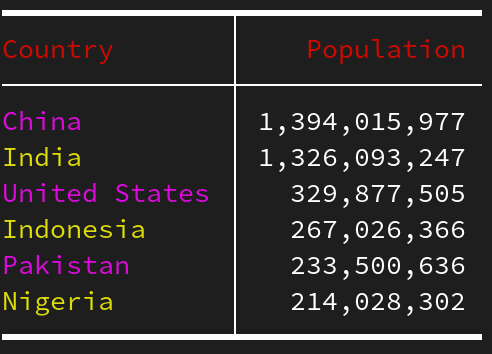
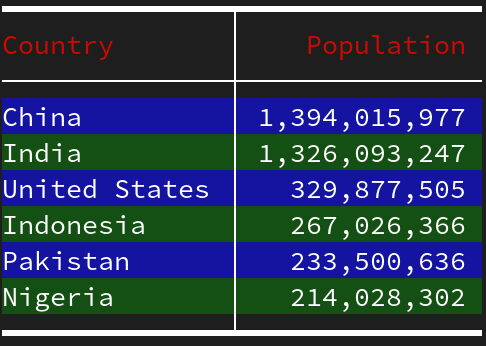
Colors in README.md

diff --git a/table_test.go b/table_test.go
@@ -433,16 +433,16 @@ func ExampleTable_2() {
 // table
 func ExampleTable_3() {
 
-	t, _ := NewTable("l | r ")
+	t, _ := NewTable("\033[38;2;80;80;80ml | r \033[0m")
 	t.AddThickRule()
-	t.AddRow("\033[38;2;206;10;0mCountry\033[0m", "\033[38;2;206;10;0mPopulation\033[0m")
+	t.AddRow("\033[0mCountry\033[38;2;80;80;80m", "\033[0mPopulation")
 	t.AddSingleRule()
-	t.AddRow("\033[38;2;220;10;220mChina\033[0m", "1,394,015,977")
-	t.AddRow("\033[38;2;220;220;10mIndia\033[0m", "1,326,093,247")
-	t.AddRow("\033[38;2;220;10;220mUnited States\033[0m", "329,877,505")
-	t.AddRow("\033[38;2;220;220;10mIndonesia\033[0m", "267,026,366")
-	t.AddRow("\033[38;2;220;10;220mPakistan\033[0m", "233,500,636")
-	t.AddRow("\033[38;2;220;220;10mNigeria\033[0m", "214,028,302")
+	t.AddRow("\033[0mChina\033[38;2;80;80;80m", "\033[0m1,394,015,977")
+	t.AddRow("\033[0mIndia\033[38;2;80;80;80m", "\033[0m1,326,093,247")
+	t.AddRow("\033[0mUnited States\033[38;2;80;80;80m", "\033[0m329,877,505")
+	t.AddRow("\033[0mIndonesia\033[38;2;80;80;80m", "\033[0m267,026,366")
+	t.AddRow("\033[0mPakistan\033[38;2;80;80;80m", "\033[0m233,500,636")
+	t.AddRow("\033[0mNigeria\033[38;2;80;80;80m", "\033[0m214,028,302")
 	t.AddThickRule()
 	fmt.Printf("Output:\n%v", t)
 	// Output:

diff --git a/README.md b/README.md
@@ -219,23 +219,50 @@ is not tied to any, so that the following examples explicitly show the specific
 ANSI color codes required to render each fragment:
 
 ``` Go
-	t, _ := NewTable("l | r ")
+	t, _ := NewTable("l | r \033[0m")
 	t.AddThickRule()
-	t.AddRow("\033[38;2;206;10;0mCountry\033[0m", "\033[38;2;206;10;0mPopulation\033[0m")
+	t.AddRow("\033[38;2;206;10;0mCountry\033[0m", "\033[38;2;206;10;0mPopulation")
 	t.AddSingleRule()
-	t.AddRow("\033[38;2;220;10;220mChina\033[0m", "1,394,015,977")
-	t.AddRow("\033[38;2;220;220;10mIndia\033[0m", "1,326,093,247")
-	t.AddRow("\033[38;2;220;10;220mUnited States\033[0m", "329,877,505")
-	t.AddRow("\033[38;2;220;220;10mIndonesia\033[0m", "267,026,366")
-	t.AddRow("\033[38;2;220;10;220mPakistan\033[0m", "233,500,636")
-	t.AddRow("\033[38;2;220;220;10mNigeria\033[0m", "214,028,302")
+	t.AddRow("\033[48;2;20;20;160mChina", "1,394,015,977")
+	t.AddRow("\033[48;2;20;80;20mIndia", "1,326,093,247")
+	t.AddRow("\033[48;2;20;20;160mUnited States", "329,877,505")
+	t.AddRow("\033[48;2;20;80;20mIndonesia", "267,026,366")
+	t.AddRow("\033[48;2;20;20;160mPakistan", "233,500,636")
+	t.AddRow("\033[48;2;20;80;20mNigeria", "214,028,302")
 	t.AddThickRule()
-	fmt.Printf("%v", t)    
+	fmt.Printf("%v", t)
 ```
 
 which produces:
 
 ![example-2](figs/example-2.png "example-2")
+
+Mind the trick! The ANSI color codes of each line including the headers is
+automatically ended with `\033[0m` just simply by adding it to the *column
+specification* of the table. Of course, one could end each line manually but as
+the example shows this is not necessary at all.
+
+Just by reversing the location of the codes it is also possible to colour only
+the splitters and rules:
+
+``` Go
+    t, _ := NewTable("\033[38;2;80;80;80ml | r \033[0m")
+	t.AddThickRule()
+	t.AddRow("\033[0mCountry\033[38;2;80;80;80m", "\033[0mPopulation")
+	t.AddSingleRule()
+	t.AddRow("\033[0mChina\033[38;2;80;80;80m", "\033[0m1,394,015,977")
+	t.AddRow("\033[0mIndia\033[38;2;80;80;80m", "\033[0m1,326,093,247")
+	t.AddRow("\033[0mUnited States\033[38;2;80;80;80m", "\033[0m329,877,505")
+	t.AddRow("\033[0mIndonesia\033[38;2;80;80;80m", "\033[0m267,026,366")
+	t.AddRow("\033[0mPakistan\033[38;2;80;80;80m", "\033[0m233,500,636")
+	t.AddRow("\033[0mNigeria\033[38;2;80;80;80m", "\033[0m214,028,302")
+	t.AddThickRule()
+	fmt.Printf("%v", t)
+```
+
+for producing:
+
+![example-3](figs/example-3.png "example-3")
 
 # License #
 
